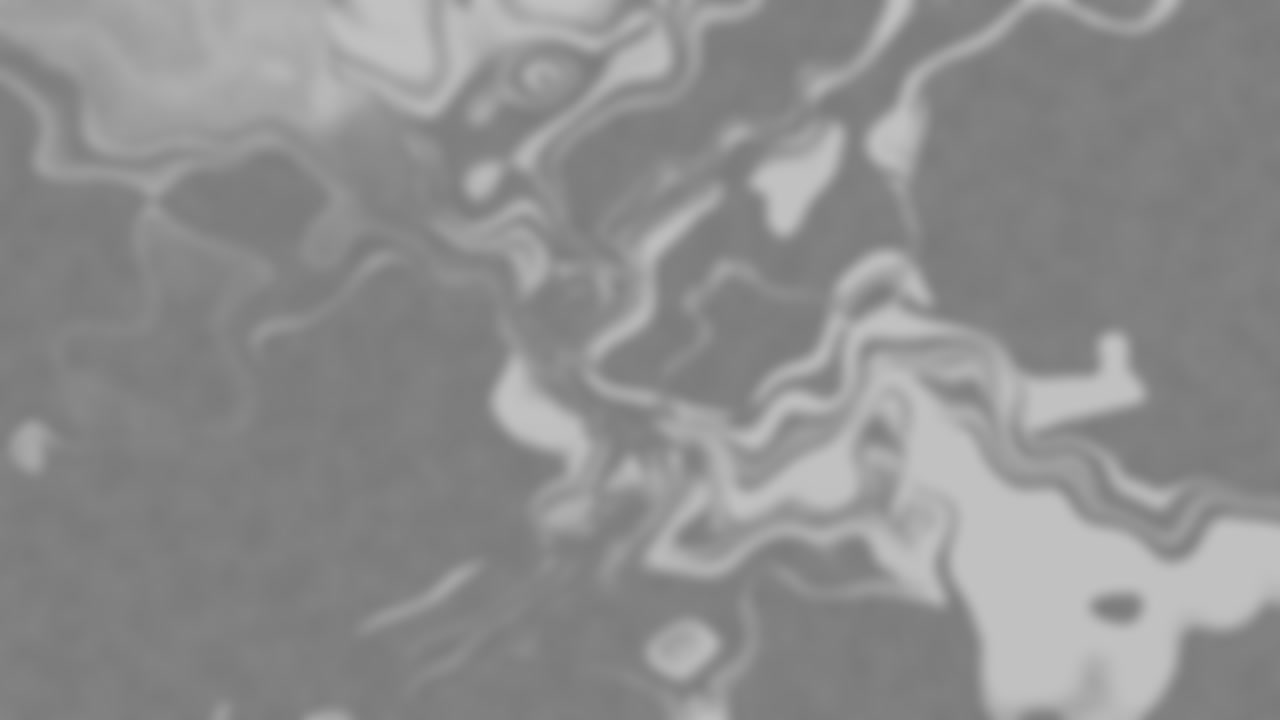
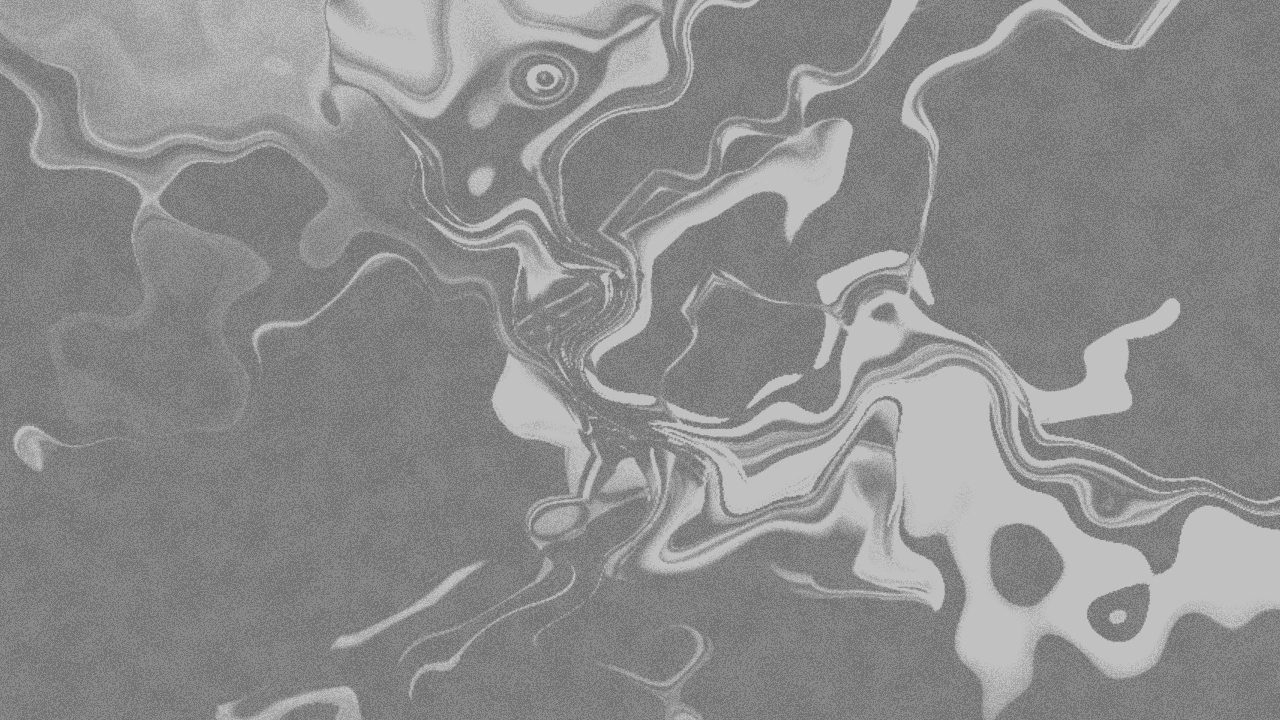
background fussing

diff --git a/app/characters/page.tsx b/app/characters/page.tsx
@@ -58,21 +58,21 @@ export default function CharactersPage() {
 
   return (
     <main className="w-screen h-screen overflow-hidden relative">
-      <video
-        autoPlay
-        loop
-        muted
-        playsInline
-        src="/bg-alt-boomerang.webm"
-        className="absolute inset-0 w-full h-full object-cover -z-21"
-      />
-      {/* <Image */}
-      {/*   src="/bg.png" */}
-      {/*   alt="character select background" */}
-      {/*   fill={true} */}
-      {/*   unoptimized */}
-      {/*   className="[image-rendering:pixelated] -z-21" */}
+      {/* <video */}
+      {/*   autoPlay */}
+      {/*   loop */}
+      {/*   muted */}
+      {/*   playsInline */}
+      {/*   src="/bg-alt-boomerang.webm" */}
+      {/*   className="absolute inset-0 w-full h-full object-cover -z-21" */}
       {/* /> */}
+      <Image
+        src="/bg-alt.jpg"
+        alt="character select background"
+        fill={true}
+        unoptimized
+        className="[image-rendering:pixelated] -z-21 blur-sm brightness-130"
+      />
       {/* <AnimatePresence> */}
       {/*   {portraitChar && ( */}
       {/*     <motion.div */}
